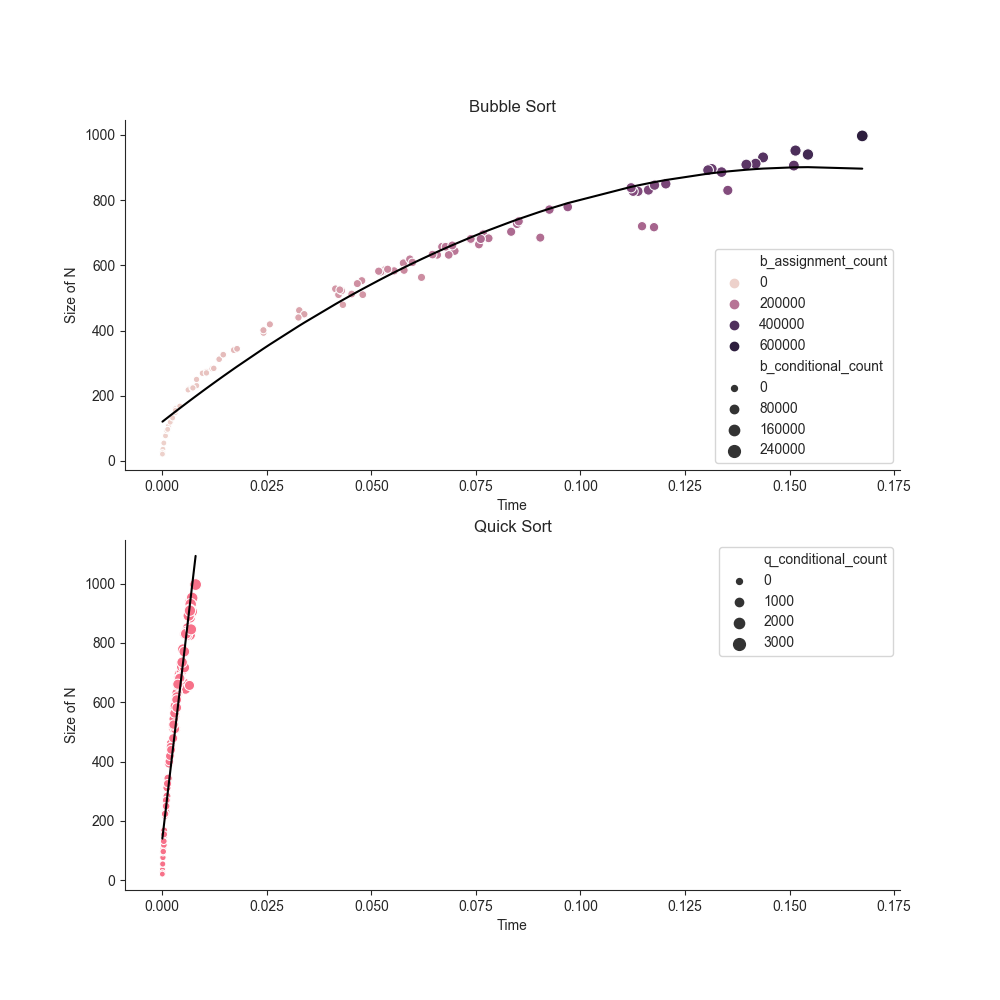
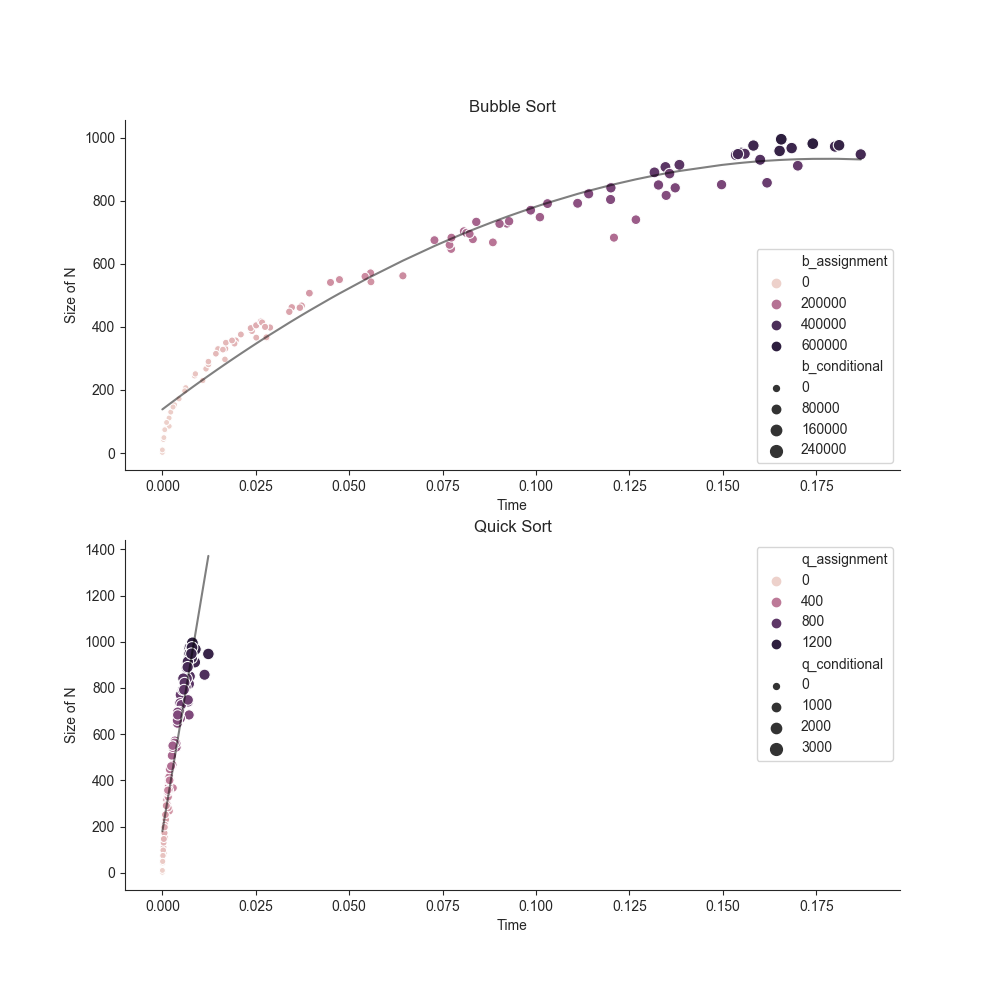
added hue to quick sort

diff --git a/call_sort.py b/call_sort.py
@@ -17,6 +17,7 @@ import quick_sort
 
 import pandas as pd
 import numpy as np
+from sympy import S, symbols
 
 import seaborn as sns
 import matplotlib.pyplot as plt
@@ -35,7 +36,7 @@ def main():
     # empty lists to collect data from loop
     bubble_times,quick_times = [],[]
     number_elements = []
-    quick_cond,bubble_cond,bubble_assi = [],[],[]
+    quick_cond,quick_assi,bubble_cond,bubble_assi = [],[],[],[]
 
     # make the random lists
     random_lists = [[random.randrange(args.max) for _ in range(random.randrange(args.element))] for __ in range(args.total)]
@@ -46,7 +47,7 @@ def main():
 
         # run quick sort
         quick_start = time.time()
-        out_bubble,conditionals_quick = quick_sort.run_quick_sort(r)
+        out_bubble,assignments_quick,conditionals_quick = quick_sort.run_quick_sort(r)
         quick_end = time.time()
 
         # run bubble sort
@@ -58,11 +59,12 @@ def main():
         quick_times.append(quick_end - quick_start)
         bubble_times.append(bubble_end - bubble_start)
         quick_cond.append(conditionals_quick)
+        quick_assi.append(assignments_quick)
         bubble_cond.append(conditionals_bubble)
         bubble_assi.append(assignments_bubble)
 
     # make data frame for out lists
-    pd_lists = pd.DataFrame(list(zip(bubble_times,quick_times,number_elements,quick_cond,bubble_cond,bubble_assi)),columns=['bubble','quick', 'n',"q_conditional_count","b_conditional_count","b_assignment_count"])
+    pd_lists = pd.DataFrame(list(zip(bubble_times,quick_times,number_elements,quick_cond,quick_assi,bubble_cond,bubble_assi)),columns=['bubble','quick', 'n',"q_conditional","q_assignment","b_conditional","b_assignment"])
 
     # graph
     sns.set_style('ticks')
@@ -72,11 +74,14 @@ def main():
     ax0 = plt.subplot(gs[0,:])
     ax0.ticklabel_format(style='sci')
     ax1 = plt.subplot(gs[1,:],sharex=ax0)
-    sns.scatterplot(x="bubble", y="n", size="b_conditional_count", hue="b_assignment_count", data=pd_lists,ax=ax0)
-    sns.scatterplot(x="quick", y="n", size="q_conditional_count",data=pd_lists,ax=ax1)
     # kind of sloppy line of best fit
-    ax0.plot(np.unique(pd_lists['bubble']), np.poly1d(np.polyfit(pd_lists['bubble'], pd_lists['n'], 2))(np.unique(pd_lists['bubble'])),c='black')
-    ax1.plot(np.unique(pd_lists['quick']), np.poly1d(np.polyfit(pd_lists['quick'], pd_lists['n'], 1))(np.unique(pd_lists['quick'])),c='black')
+    ax0.plot(np.unique(pd_lists['bubble']), np.poly1d(np.polyfit(pd_lists['bubble'], pd_lists['n'], 2))(np.unique(pd_lists['bubble'])),c='black',alpha=.5)
+    ax1.plot(np.unique(pd_lists['quick']), np.poly1d(np.polyfit(pd_lists['quick'], pd_lists['n'], 1))(np.unique(pd_lists['quick'])),c='black',alpha=.5)
+    sns.scatterplot(x="bubble", y="n", size="b_conditional", hue="b_assignment", data=pd_lists,ax=ax0)
+    sns.scatterplot(x="quick", y="n", size="q_conditional", hue="q_assignment",data=pd_lists,ax=ax1)
+    # x = symbols("x")
+    # bubble_poly = sum(S("{:6.2f}".format(v))*x**i for i, v in enumerate(p[::-1]))
+    # bubble_eq_latex = sympy.printing.latex(poly)
     ax0.set_title("Bubble Sort")
     ax0.set_ylabel("Size of N")
     ax0.set_xlabel("Time")

diff --git a/quick_sort.py b/quick_sort.py
@@ -6,7 +6,7 @@ Script to implement quick sort
 import argparse
 
 def quick_sort(quick_list):
-    global count_conditionals
+    global count_assignments,count_conditionals
     count_conditionals += 1
     if len(quick_list) <= 1:
         return quick_list
@@ -16,6 +16,7 @@ def quick_sort(quick_list):
         # add to the list of values that are larger than the pivot,
         # recursively put through the function
         count_conditionals += 1
+        count_assignments += 1 # not sure if putting value into list is assignment
         return quick_sort([x for x in quick_list[1:]
             if x < quick_list[0]]) + [quick_list[0]] + \
             quick_sort([x for x in quick_list[1:]
@@ -23,9 +24,10 @@ def quick_sort(quick_list):
 
 def run_quick_sort(quick_list):
     global count_conditionals
-    count_conditionals = 0
+    global count_assignments
+    count_assignments,count_conditionals = 0,0
     out_list = quick_sort(quick_list)
-    return out_list,count_conditionals-1
+    return out_list,count_assignments,count_conditionals-1
 
 if __name__ == "__main__":
 	main()
